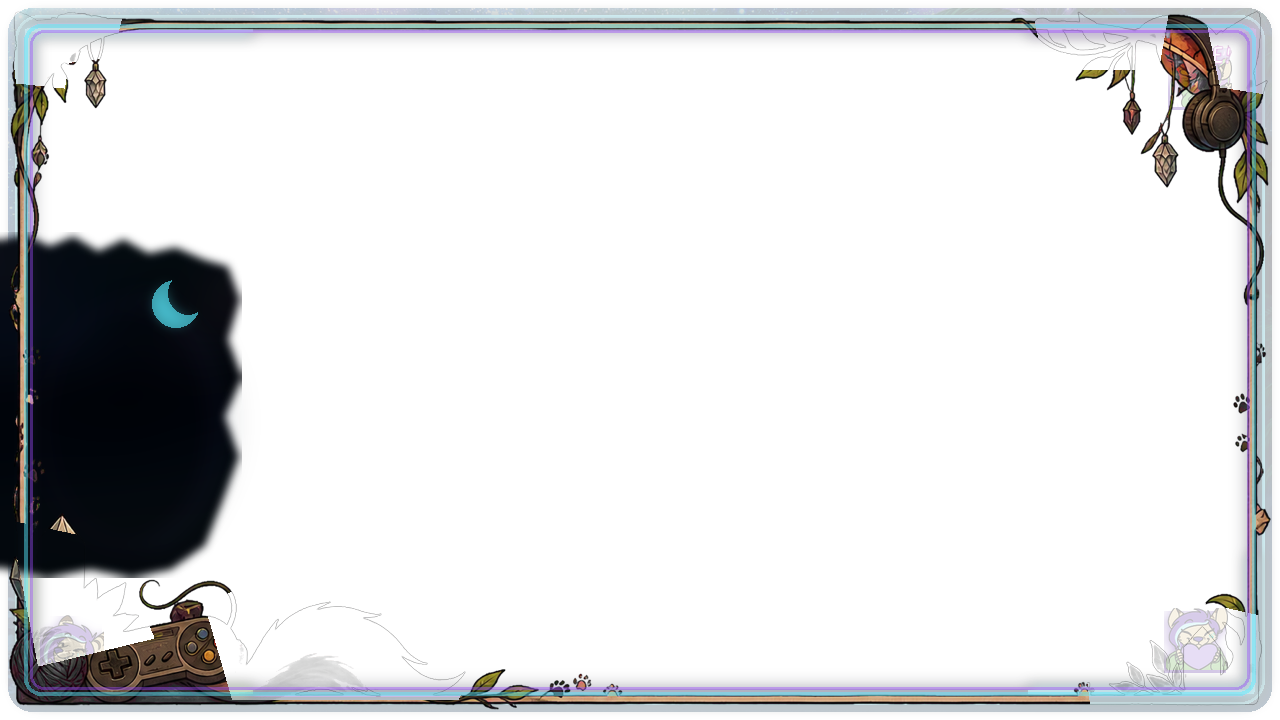
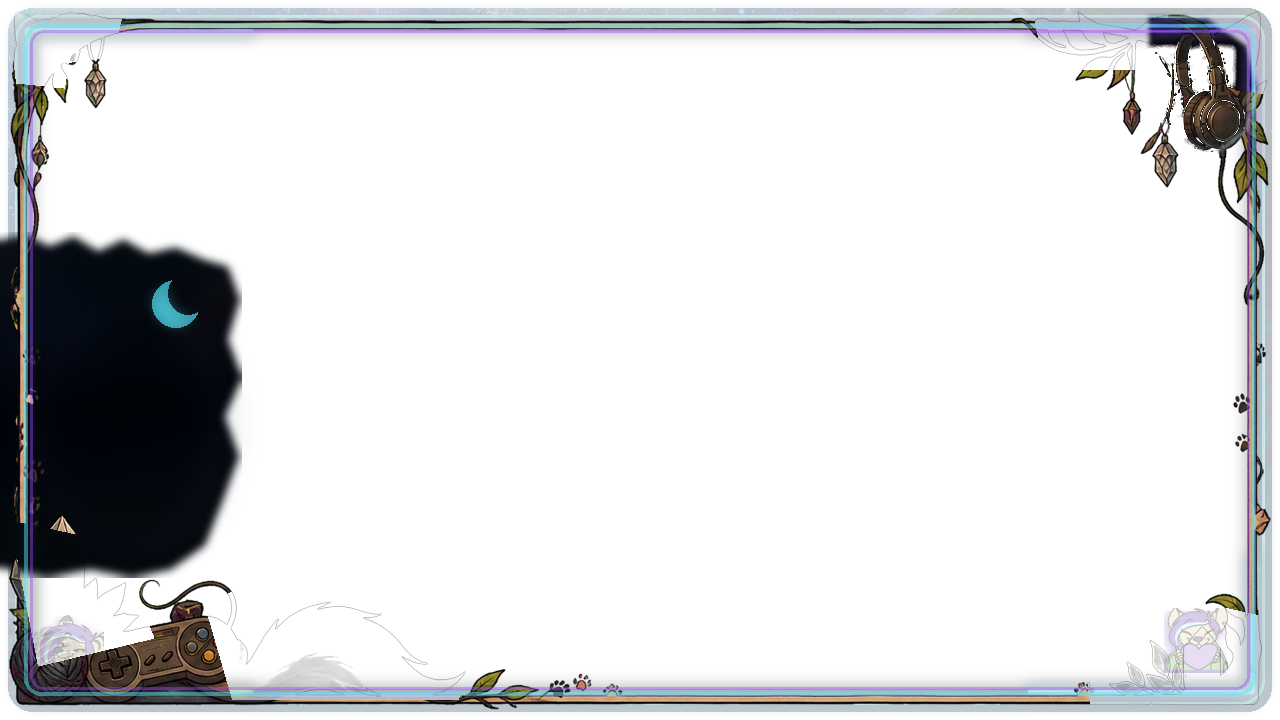
Remove extra frame ears
Keeps Gwen’s real ear animation while removing the decorative corner-ear pair.

Changed region(s): [[0.875, 0.0, 1.0, 0.2139]]

diff --git a/styles.css b/styles.css
@@ -78,8 +78,6 @@ html, body {
   will-change: transform, opacity, filter;
 }
 
-.earLeft { left: 7px; top: 0; width: 71px; height: 96px; background-position: -7px 0; transform-origin: 36px 85px; animation: ear-left-twitch 9.8s ease-in-out infinite; }
-.earRight { left: 1202px; top: 0; width: 78px; height: 104px; background-position: -1202px 0; transform-origin: 37px 88px; animation: ear-right-twitch 11.4s ease-in-out infinite; }
 .leavesLeft { left: 12px; top: 0; width: 114px; height: 68px; background-position: -12px 0; transform-origin: 55px 58px; animation: leaves-sway-a 5.4s ease-in-out infinite alternate; }
 .leavesRight { left: 1030px; top: 0; width: 140px; height: 75px; background-position: -1030px 0; transform-origin: 74px 68px; animation: leaves-sway-b 6.2s ease-in-out infinite alternate; }
 .plantBottomLeft { left: 10px; top: 520px; width: 144px; height: 146px; background-position: -10px -520px; transform-origin: 74px 132px; animation: leaves-sway-a 4.8s ease-in-out infinite alternate; }
@@ -164,20 +162,6 @@ html, body {
 
 @keyframes leaves-sway-a { from { transform: rotate(-.9deg); } to { transform: rotate(1.05deg); } }
 @keyframes leaves-sway-b { from { transform: rotate(.8deg); } to { transform: rotate(-.85deg); } }
-
-@keyframes ear-left-twitch {
-  0%, 29%, 34%, 100% { transform: rotate(0); }
-  30% { transform: rotate(-4.4deg); }
-  31.4% { transform: rotate(2.2deg); }
-  33% { transform: rotate(-1deg); }
-}
-
-@keyframes ear-right-twitch {
-  0%, 61%, 66%, 100% { transform: rotate(0); }
-  62% { transform: rotate(4.1deg); }
-  63.5% { transform: rotate(-2deg); }
-  65% { transform: rotate(.8deg); }
-}
 
 @keyframes tail-twitch {
   0%, 41%, 53%, 89%, 100% { transform: rotate(0); }

diff --git a/index.html b/index.html
@@ -15,8 +15,6 @@
         <div class="framePatch leaves leavesRight"></div>
         <div class="framePatch leaves plantBottomLeft"></div>
         <div class="framePatch leaves plantBottomRight"></div>
-        <div class="framePatch ear earLeft"></div>
-        <div class="framePatch ear earRight"></div>
         <div class="framePatch tail"></div>
         <div class="framePatch crystal crystalTopLeft aqua"></div>
         <div class="framePatch crystal crystalTopRight purple"></div>
